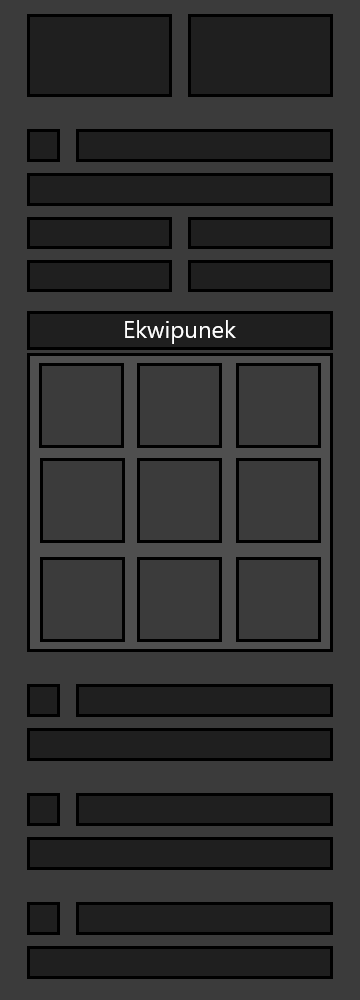
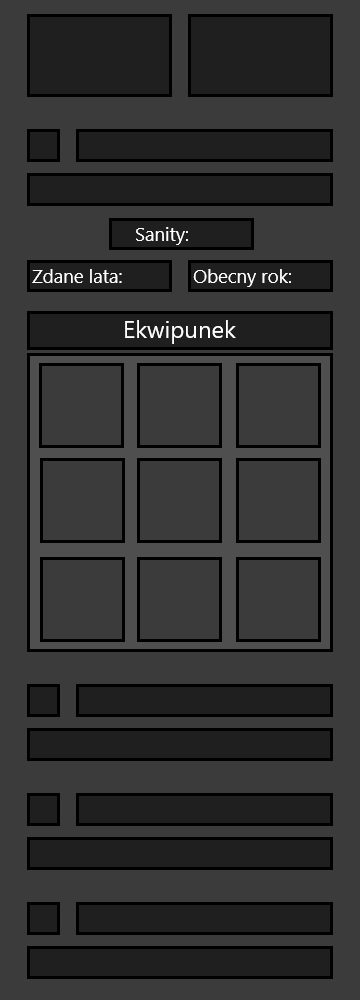
Part 1 z robienia, aby menu boczne wyglądało

Changed region(s): [[0.55, 0.217, 0.9472, 0.279], [0.0611, 0.217, 0.3361, 0.279], [0.3667, 0.217, 0.55, 0.248]]

diff --git a/style.css b/style.css
@@ -108,8 +108,8 @@ body {
 }
 
 .strzalka_srodek_lewo{
-    position: absolute;
     background-size: cover;
+    position: absolute;
     left: 5%;
     top: 43%; 
 }
@@ -237,7 +237,8 @@ body {
 .menu_statystyk {
     height: 100vh;
     width: 36vh;
-    background-color: red;
+    background-image: url('menu_boczne_grafiki/menu_boczne_tlo.png');
+    background-size: cover;
     flex-direction: column;
     justify-content: center;
     align-items: center;
@@ -246,10 +247,10 @@ body {
 
 .menu_statystyk * {
     text-align: center;
-    justify-content: center;
-    align-items: center;
+    color: white;
+    position: relative;
+/*dodać border: nonr;*/
 }
-
 .ekran_gry {
     height: 100vh;
     width: calc(100vw - 36vh);
@@ -275,31 +276,52 @@ body {
     position: absolute;
 }
 
-#przycisk_mapa,
-#ustawienia_menu_boczne {
-    height: 8vh;
-    width: 16vh;
+#przycisk_statystyki {
+    background-image: url('menu_boczne_grafiki/Statystyki.png');
+    background-size: cover;
+    height: 8.6vh;
+    width: 15vh;
     margin: 0.5vh;
     margin-bottom: 5vh;
+    position: absolute;
+    top: 0.9vh; 
+    left: 5.5%;
 }
 
-.nr_gracza {
+#ustawienia_menu_boczne {
+    background-image: url('menu_boczne_grafiki/Ustawienia.png');
+    background-size: cover;
+    height: 8.6vh;
+    width: 15vh;
+    margin: 0.5vh;
+    margin-bottom: 5vh;
+    position: absolute;
+    top: 0.9vh; 
+    right: 5.5%;
+}
+
+.nr_gracza {    
     width: 4vh;
     height: 3vh;
     margin: 0.5vh;
-
+    background-color: transparent;
+    position: absolute;
 }
 
 .nazwa_gracza {
-    width: 26vh;
+    width: 25.5vh;
     height: 3vh;
     margin: 0.5vh;
+    background-color: transparent;
+    position: absolute;
 }
 
 .klasa_gracza {
     margin: 0.5vh;
-    width: 32vh;
+    width: 30vh;
     height: 3vh;
+    background-color: transparent;
+    position: absolute;
 }
 
 #ekwipunek {
@@ -307,25 +329,28 @@ body {
     width: 32vh;
     height: 3vh;
     margin-top: 3vh;
+    background-color: transparent;
+    position: absolute;
 }
 
 #sanity,
-#iq,
 #zdane_lata,
 #obecny_rok {
     margin: 0.5vh;
     height: 3vh;
     width: 15vh;
+    position: absolute;
 }
 
 .ekwipunek {
-    border: 1px solid black;
     border-collapse: collapse;
     margin: 0.5vh;
     width: 10.3vh;
     height: 6vh;
     background-size: cover;
     background-position: center;
+    background-color: transparent;
+    position: absolute;
 }
 
 .odpowiedz {

diff --git a/index.html b/index.html
@@ -364,21 +364,22 @@
 
         <div class="menu_statystyk start">
             <div class="flex_poziom">
-                <button id="przycisk_mapa">mapa</button>
-                <button id="ustawienia_menu_boczne">ustawienia</button>
+                <button id="przycisk_statystyki"></button>
+                <button id="ustawienia_menu_boczne"></button>
             </div>
             <div class="flex_poziom">
-                <input readonly id="nr_wybranego" class="nr_gracza"></input>
-                <input readonly id="nazwa_wybranego" class="nazwa_gracza"></input>
-            </div>
-            <input readonly id="klasa_wybranego" class="klasa_gracza"></input>
-            <div class="flex_poziom">
-                <input readonly id="sanity"></input>
-                <input readonly id="iq"></input>
+                <input readonly id="nr_wybranego" class="nr_gracza" style="top: 12.4vh; left: 5.5%;"></input>
+                <input readonly id="nazwa_wybranego" class="nazwa_gracza" style="top: 12.4vh; right: 5.5%;"></input>
             </div>
             <div class="flex_poziom">
-                <input readonly id="zdane_lata"></input>
-                <input readonly id="obecny_rok"></input>
+                <input readonly id="klasa_wybranego" class="klasa_gracza" style="top: 16.8vh; left: 5.5%;"></input>
+            </div>
+            <div class="flex_poziom">
+                <input readonly id="sanity" style="background-color: transparent; top: 50vh; left: 5.5%;"></input>
+            </div>
+            <div class="flex_poziom">
+                <input readonly id="zdane_lata" style="background-color: transparent;"></input>
+                <input readonly id="obecny_rok" style="background-color: transparent;"></input>
             </div>
 
             <div id="statystyki_przedmiotu">
@@ -390,7 +391,7 @@
                 <button id="uzyj_przedmiotu">UŻYJ</button>
             </div>
             <div id="caly_ekwipunek">
-                <input type="text" id="ekwipunek" readonly placeholder="EKWIPUNEK">
+                
                 <div class="flex_poziom">
                     <button class="ekwipunek"></button>
                     <button class="ekwipunek"></button>
